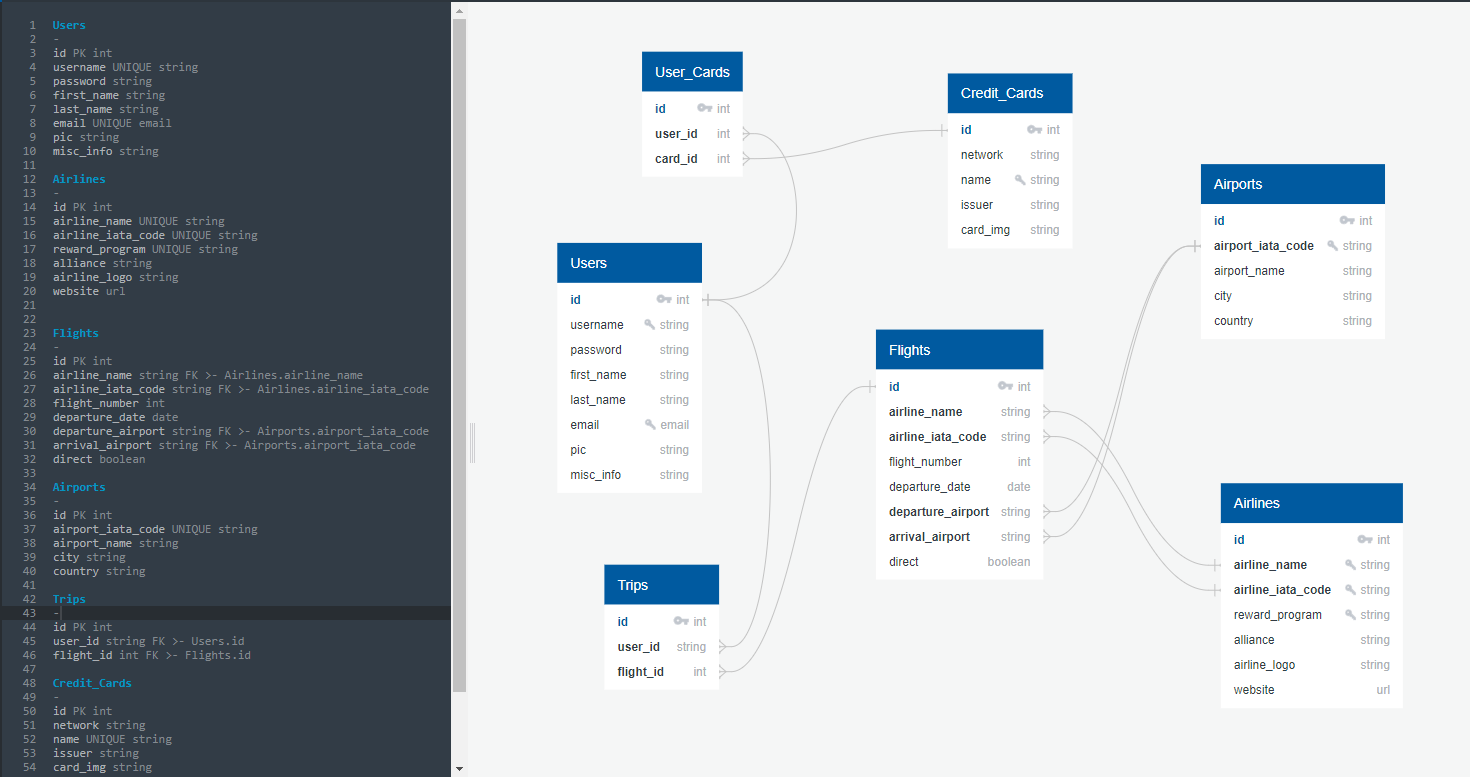
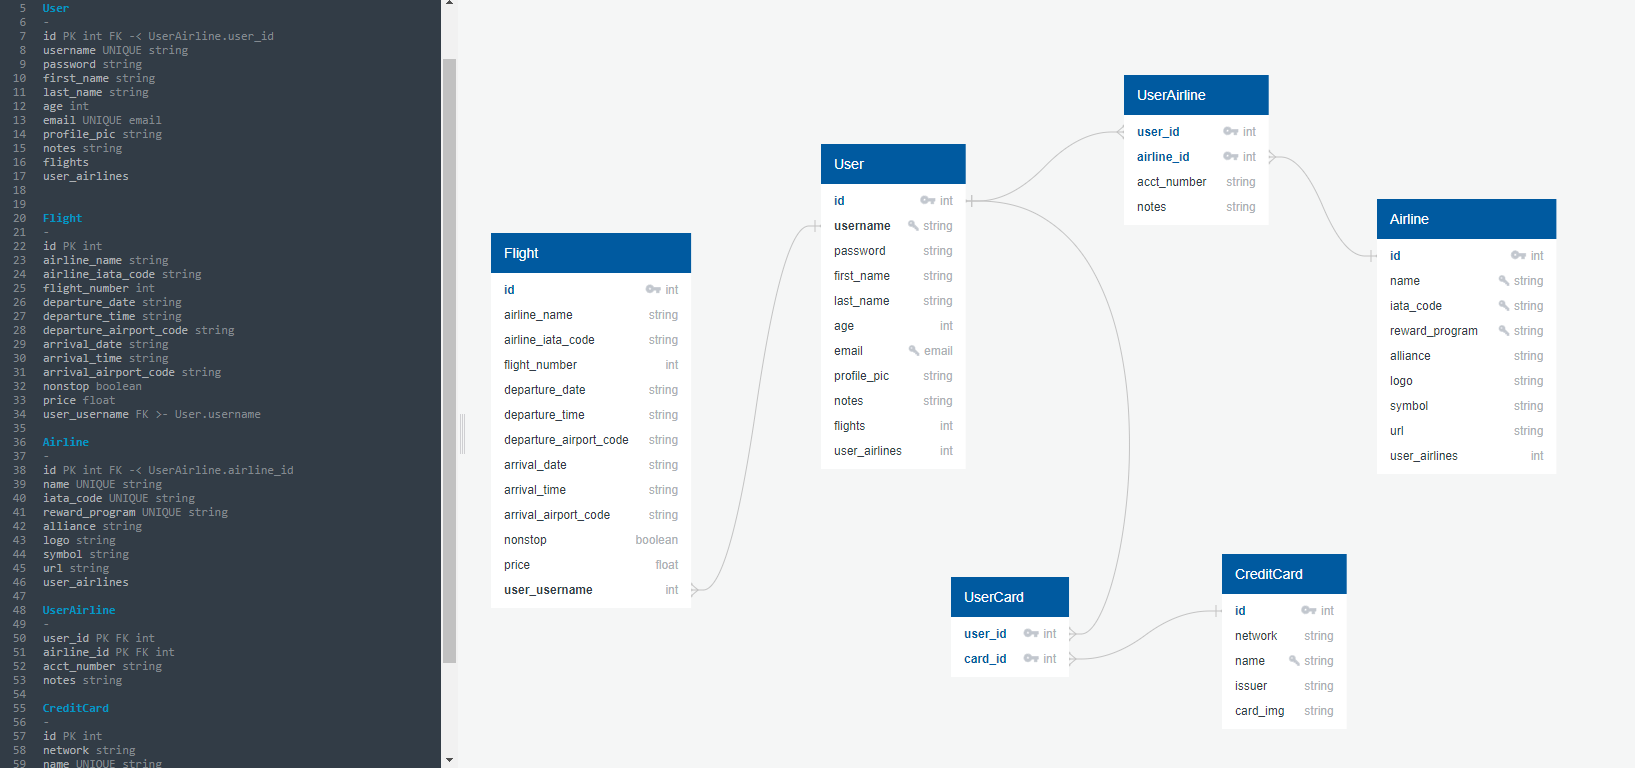
Fleshed out README; redesigned database_scheme.png

diff --git a/README.md b/README.md
@@ -1,28 +1,42 @@
-# FlightClub
+# **FlightClub**
 
 Full-stack application for Springboard's software engineering curriculum.
 
 ---
-### API used: 
+### **API used:**
 1. [Amadeus for Developers](https://developers.amadeus.com/self-service/category/air/api-doc/flight-offers-search)
-2. [Priceline] (https://priceline-com-provider.p.rapidapi.com/v2/flight/departures)
+2. [Priceline API](https://priceline-com-provider.p.rapidapi.com/v2/flight/departures)
 
 ---
-### Description: 
-The Flight Club initiative was started shortly after my years working as an int'l travel manager. 
-The 3 pillars that make Flight Club work:
+### **Description:** 
+The Flight Club initiative was started shortly after my years working as an Int'l travel manager and from the knowledge and expertise I acquired.
+
+This app will allow a user to create a personalized account, search worldwide flight paths, save individual flights of interest, add airline reward programs to their profile, and receive feedback from Flight Club on which airline programs they have that are matches to each of their saved flights. This essentially discloses all the available airlines that would sell a specific flight of interest under their own brand name -- with their own airline miles -- thus exposing many other outlets of purchase for a single flight with potential savings.
+
+The 3 standing pillars that make Flight Club beneficial:
 1. Every major airline has a free and easy-to-use rewards program.
-2. Most major credit cards accumulate points for the card holder based on purchases on that card that can be transferred to a dozen or more airline programs.
-3. It's now more common, easy, and available than ever in history to fly.
+2. Most major credit cards acrue points from purchases that can be transferred to a dozen or more airline reward programs.
+3. Major airlines are a part of a larger airline alliance that exercise "codeshare" agreements -- flights that are purchaseable under an allies brand with that airline's reward points.
+Flight Club marries these principles together in an intuitive and convenient program that helps users manage flights
 
 ---
-### User Flow: 
+### **User Flow:**
+A user will be required to create a free account before having access to a personalized profile, ability to search/save flights, and add airline frequent flier programs.
+
+Once registered and logged in, a user can navigate to their profile page to add all of their current airline reward programs. i.e. Delta Skymiles, Air France Flying Blue, British Airways Executive Club, etc.
+
+A registered user has access to Search Flights, which allows a user to search and display nonstop flights from any worldwide flight paths using both airport's 3-character IATA code (JFK-New York, ATL-Atlanta, LHR-London, etc.).
+
+If a flight of interest is found, the user can choose to save this flight to their profile. A user can save any number of flights. After a saved flight is selected from a user's profile, Flight Club will filter the saved flight's airline alliance partners against the user's current saved airline rewards programs. A list of compatible airline partners is rendered for the user, which essentially tells the user that their selected flight is potentially available for purchase with that list of alliance airlines' reward programs, of which the user already has an account. 
+
+Example: A user is interested in the nonstop Swiss Airlines flight from New York to Zurich on some given date. Selecting this route after a user's search will result in Flight Club filtering out the other airlines that are currently codeshare partners with Swiss airlines that could sell that particular ticket. i.e. United Airlines' MileagePlus program, and Air Canada's AeroPlan program. The user's account will be scanned to see which partner airline frequent flyer programs they are already a member with and suggest those programs, as well as other alliance members that the user currently does not have an account with.
 
 ---
-### Install: Heroku, Render, Railway
+### **Install: Heroku, Render, Railway**
+Installation instructions:
 
 ---
-### Technologies: 
+### **Technologies:** 
 Flight Club was mainly created using Flask. The local PostgreSQL DB was seeded with hard coded airline data.
 Other technologies used:
 - SQL/PostgreSQL
@@ -35,4 +49,5 @@ Other technologies used:
 - Bootstrap/CSS
 
 ---
-### Database Schema:
+### **Database Schema:**
+![schema](./database_schema.png)
